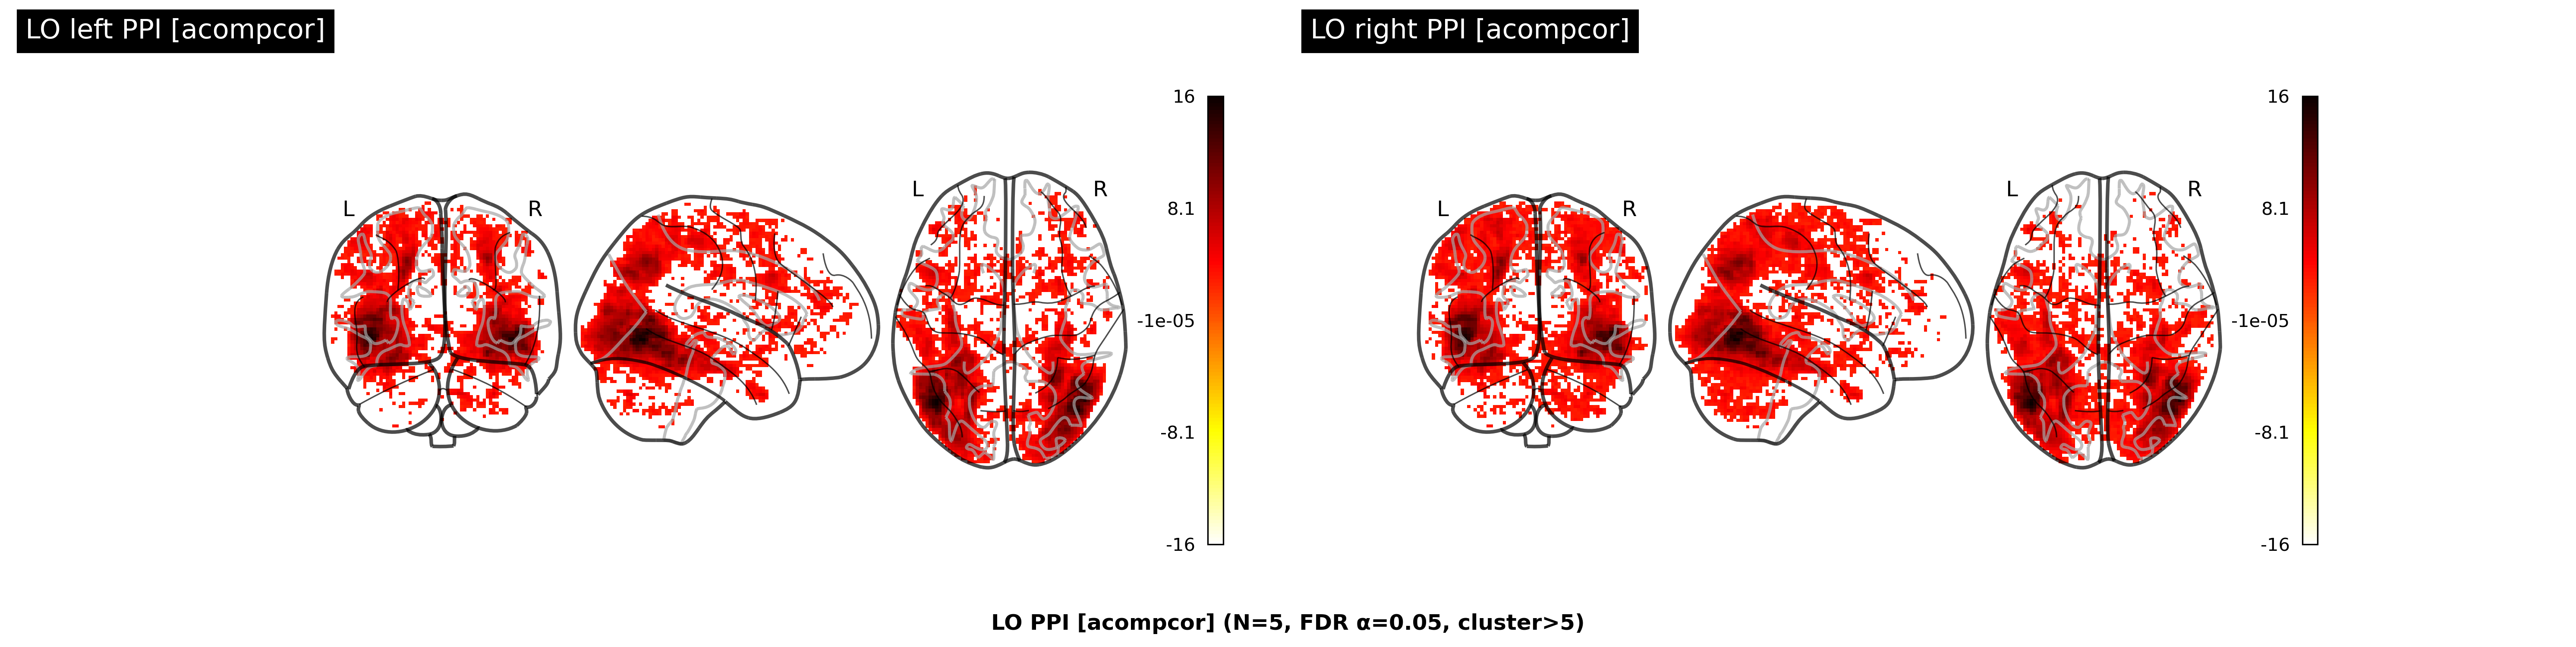
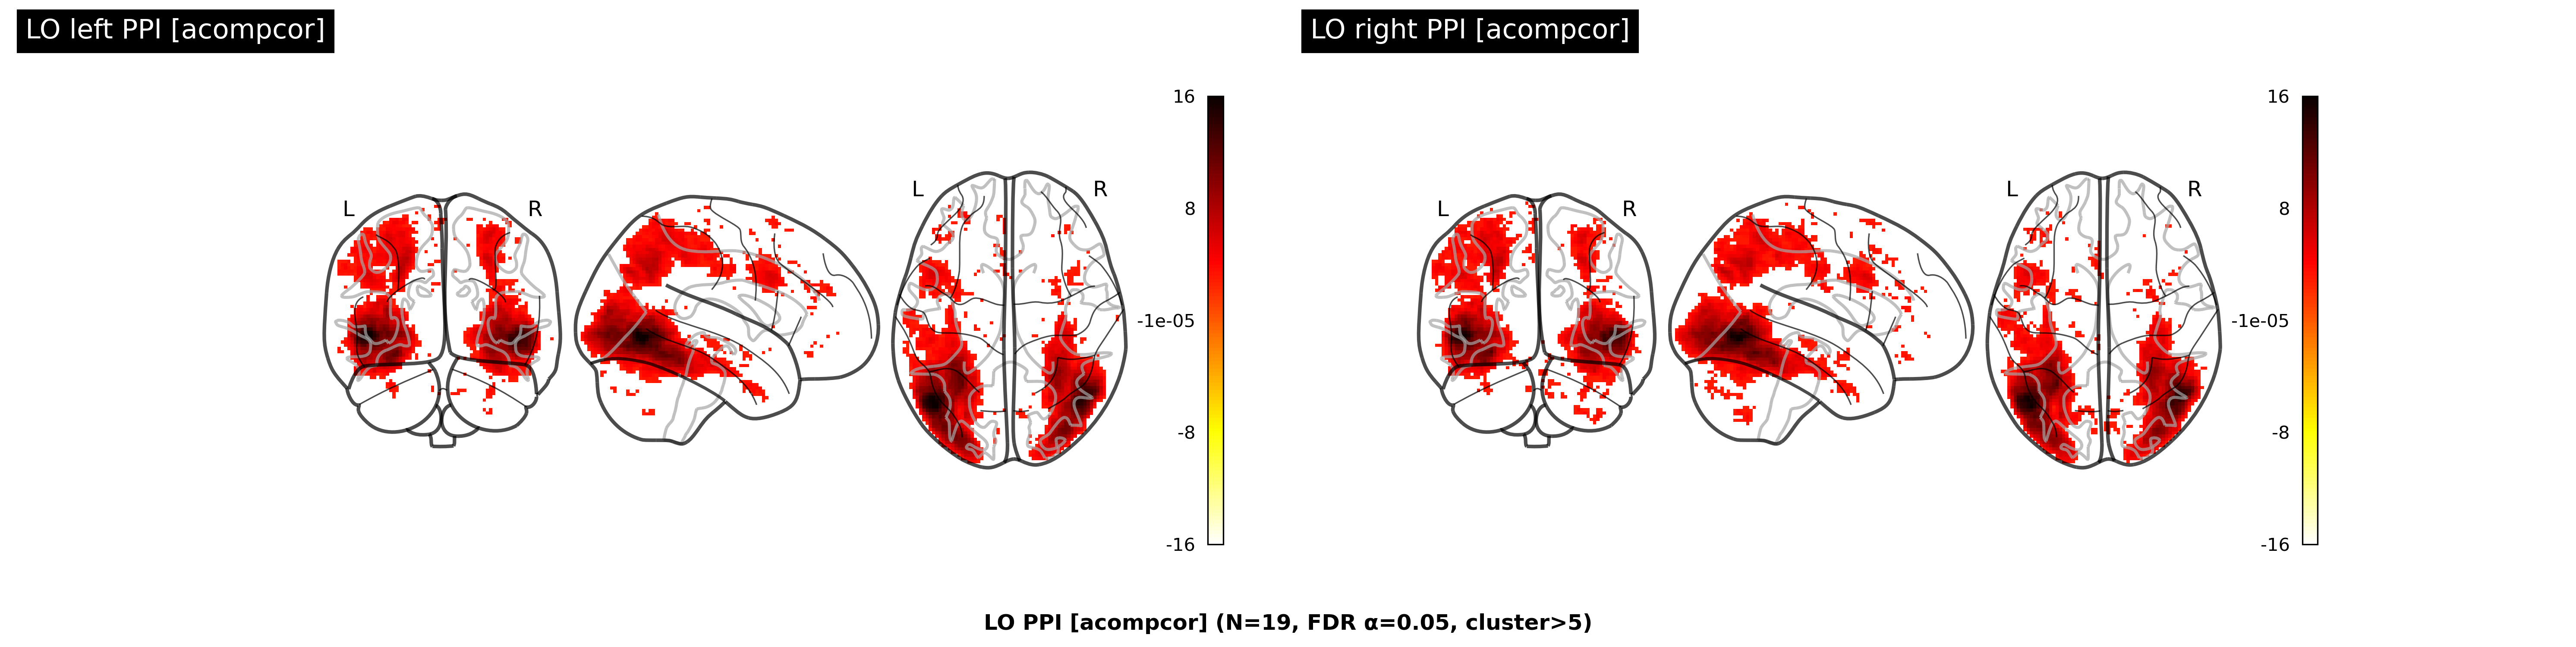
updated to include all four rois

diff --git a/being_verified/exp_1/fc_ppi/acompcor/threshold_results_compcor.py b/being_verified/exp_1/fc_ppi/acompcor/threshold_results_compcor.py
@@ -28,8 +28,7 @@ def main():
     # --- ORIGINAL: all controls ---
     sub_info = pd.read_csv(sub_info_path)
     subs = sub_info[sub_info['group'] == 'control']['sub'].tolist()
-
-    rois = ['pIPS', 'LO']
+    rois = ['LO', 'pIPS', 'PFS', 'V1']
     hemispheres = ['left', 'right']
     analysis_types = ['ppi']  # PPI only for aCompCor comparison
     #analysis_types = ['fc', 'ppi']  # original runs both

diff --git a/being_verified/exp_1/fc_ppi/acompcor/dice_compare_compcor.py b/being_verified/exp_1/fc_ppi/acompcor/dice_compare_compcor.py
@@ -21,7 +21,7 @@ results_dir = '/user_data/csimmon2/git_repos/ptoc/results'
 
 sub_info = pd.read_csv('/user_data/csimmon2/git_repos/ptoc/sub_info.csv')
 subs = sub_info[sub_info['group'] == 'control']['sub'].tolist()
-rois = ['pIPS', 'LO']
+rois = ['pIPS', 'LO', 'PFS', 'V1']
 hemispheres = ['left', 'right']
 
 

diff --git a/being_verified/exp_1/fc_ppi/acompcor/native2mni_compcor.py b/being_verified/exp_1/fc_ppi/acompcor/native2mni_compcor.py
@@ -60,7 +60,7 @@ for sub in subs:
         ], check=True)
 
     # Loop through ROIs and hemispheres
-    for roi in ['LO','pIPS']:
+    for roi in ['LO', 'pIPS', 'PFS', 'V1']:
         for hemi in ['left', 'right']:
             
             # --- ORIGINAL FC to MNI (skipping for aCompCor comparison) ---